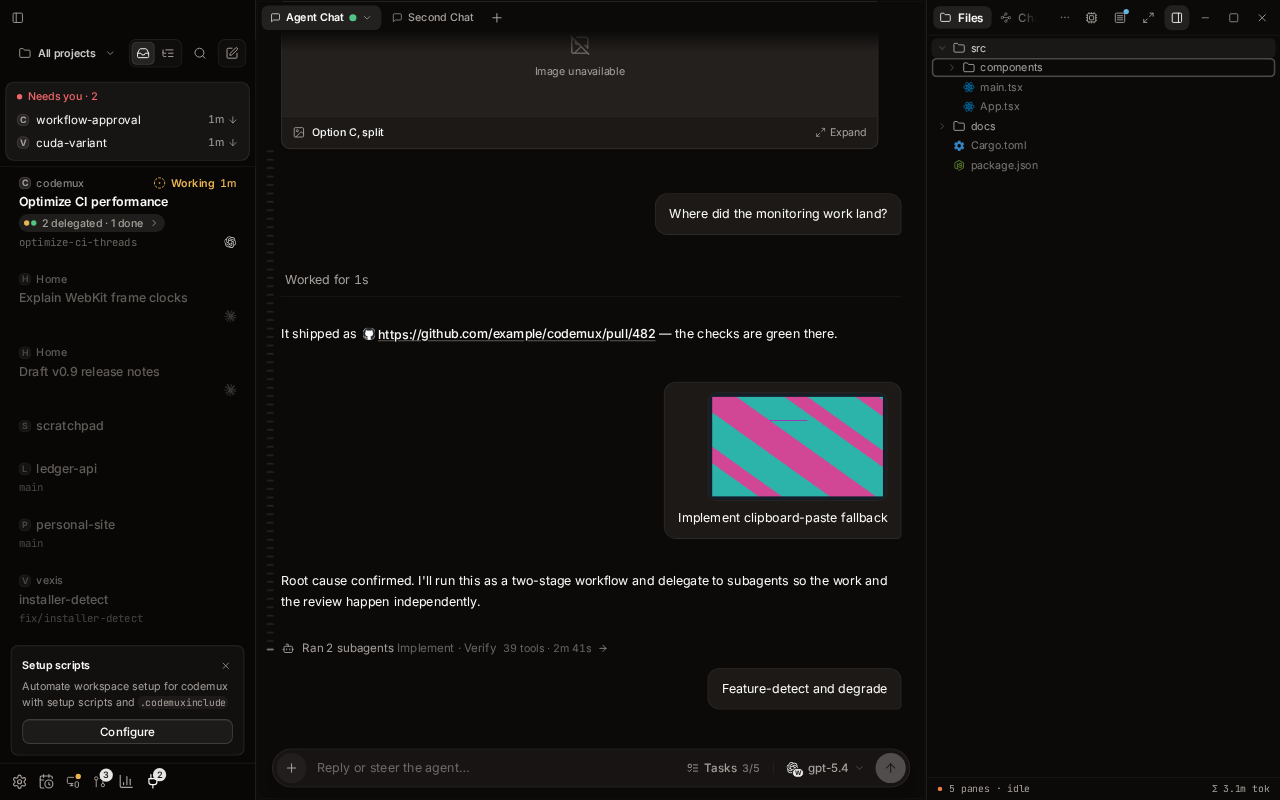
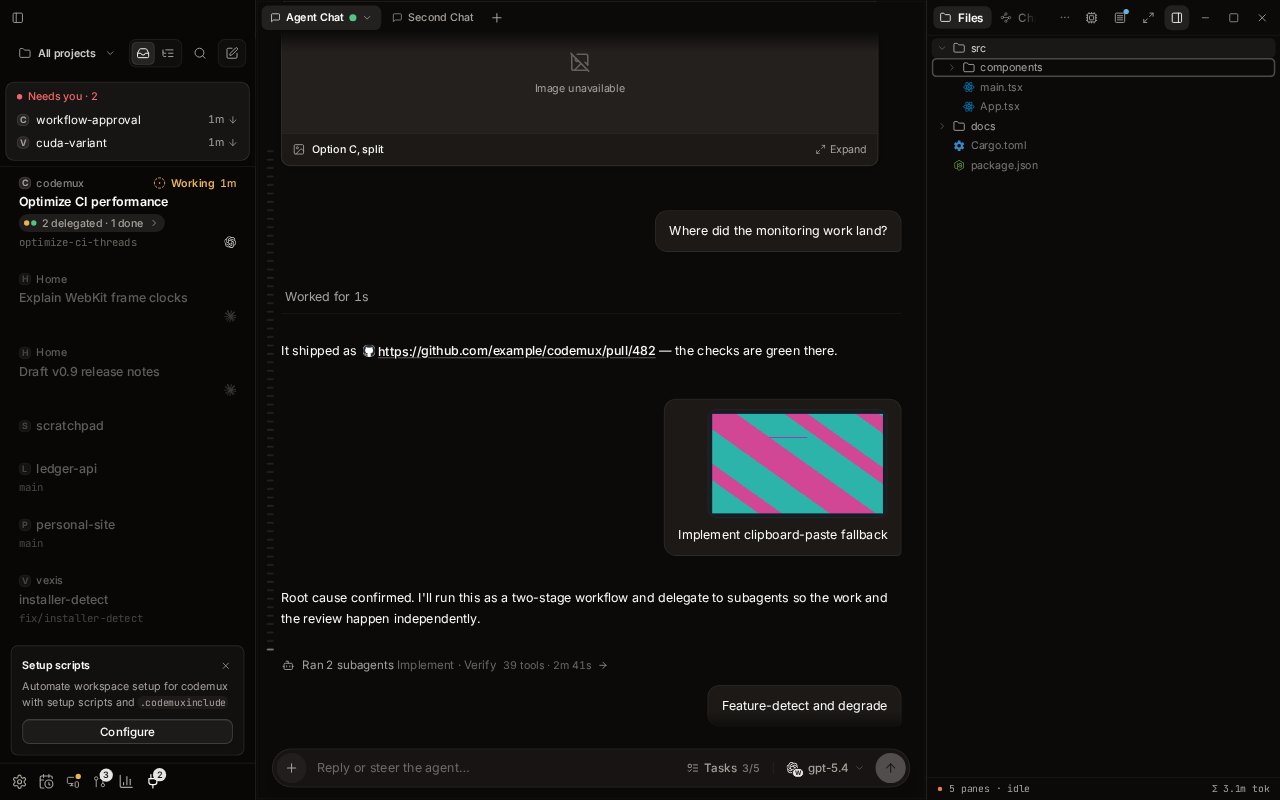
fix(file-tree): keep keyboard focus visible after scrolling

diff --git a/src/components/workspace/file-tree-panel.accessibility.test.tsx b/src/components/workspace/file-tree-panel.accessibility.test.tsx
@@ -234,6 +234,54 @@ describe("FileTreePanel accessibility", () => {
     }
   });
 
+  it.each(["Home", "End"])("reveals the active row when %s keeps the same active descendant", async (key) => {
+    const user = userEvent.setup();
+    render(<FileTreePanel workspace={workspace} />);
+    await screen.findByRole("treeitem", { name: "src" });
+    await user.tab();
+    await user.keyboard(`{${key}}`);
+    const row = activeItem().firstElementChild;
+    // Wheel scrolling does not change aria-activedescendant. A boundary
+    // command must still reveal that same row when it is out of view.
+    const scroll = vi.spyOn(Element.prototype, "scrollIntoView");
+    try {
+      await user.keyboard(`{${key}}`);
+      expect(activeItem().firstElementChild).toBe(row);
+      expect(scroll).toHaveBeenCalledWith({ block: "nearest" });
+      expect(scroll.mock.contexts.every((node) => node === row)).toBe(true);
+    } finally {
+      scroll.mockRestore();
+    }
+  });
+
+  it("reveals an active sibling pushed down by late-loading children without taking outside focus", async () => {
+    const user = userEvent.setup();
+    let resolve!: (entries: FileEntry[]) => void;
+    const pending = new Promise<FileEntry[]>((res) => { resolve = res; });
+    listDirectory.mockImplementation((path: string) => path === "/p" ? Promise.resolve(roots) : pending);
+    render(<><FileTreePanel workspace={workspace} /><button>Outside</button></>);
+    await screen.findByRole("treeitem", { name: "src" });
+    await user.tab();
+    await user.keyboard("{ArrowRight}{End}");
+    const file = activeItem();
+    expect(file).toHaveAccessibleName("README.md");
+    const scroll = vi.spyOn(Element.prototype, "scrollIntoView");
+    try {
+      await act(async () => resolve(listings["/p/src"]));
+      expect(activeItem()).toBe(file);
+      expect(scroll).toHaveBeenCalledWith({ block: "nearest" });
+      expect(scroll.mock.contexts.every((node) => node === file.firstElementChild)).toBe(true);
+      await user.click(screen.getByRole("button", { name: "Outside" }));
+      scroll.mockClear();
+      act(() => setShowHidden(true));
+      await screen.findByRole("treeitem", { name: "src" });
+      expect(scroll).not.toHaveBeenCalled();
+      expect(screen.getByRole("button", { name: "Outside" })).toHaveFocus();
+    } finally {
+      scroll.mockRestore();
+    }
+  });
+
   it("keeps focus on refresh, falls back to a surviving ancestor, then handles removal and empty results", async () => {
     const user = userEvent.setup();
     const view = render(<FileTreePanel workspace={workspace} />);

diff --git a/src/components/workspace/file-tree-panel.tsx b/src/components/workspace/file-tree-panel.tsx
@@ -234,11 +234,12 @@ export function FileTreePanel({
     }
   }, [activeNode, activePath, focusTrail]);
   const scrollActiveIntoView = useCallback(() => {
-    if (activeId && document.activeElement === treeRef.current) {
+    if (activeId && !pointerFocus.current && document.activeElement === treeRef.current) {
       document.getElementById(activeId)?.firstElementChild?.scrollIntoView({ block: "nearest" });
     }
   }, [activeId]);
-  useEffect(scrollActiveIntoView, [scrollActiveIntoView]);
+  // Newly loaded children can move an active sibling without changing its ID.
+  useEffect(scrollActiveIntoView, [scrollActiveIntoView, visibleNodes]);
   const focusItem = useCallback((path: string) => {
     const node = visibleNodes.find(({ entry }) => entry.path === path);
     if (node) setFocusTrail([...node.ancestors, path]);
@@ -331,6 +332,7 @@ export function FileTreePanel({
   const handleKeyDown = (event: KeyboardEvent<HTMLDivElement>) => {
     if (event.altKey || event.ctrlKey || event.metaKey || event.nativeEvent.isComposing) return;
     if (!activeNode) return;
+    pointerFocus.current = false;
     const index = visibleNodes.indexOf(activeNode);
     let target: VisibleNode | undefined;
     switch (event.key) {
@@ -366,6 +368,8 @@ export function FileTreePanel({
     event.preventDefault();
     event.stopPropagation();
     if (target) setFocusTrail([...target.ancestors, target.entry.path]);
+    // Boundary keys still reveal focus after the user wheel-scrolls away.
+    if (!target || target.entry.path === activePath) scrollActiveIntoView();
   };
 
   // The folder label, hidden-files toggle and Refresh that used to sit in
@@ -385,10 +389,9 @@ export function FileTreePanel({
           className="group/files px-[5px] pb-1 pt-[3px] outline-none"
           onKeyDown={handleKeyDown}
           onPointerDownCapture={() => { pointerFocus.current = true; }}
-          onFocus={() => {
-            if (!pointerFocus.current) scrollActiveIntoView();
-            pointerFocus.current = false;
-          }}
+          onPointerUpCapture={() => { pointerFocus.current = false; }}
+          onPointerCancelCapture={() => { pointerFocus.current = false; }}
+          onFocus={scrollActiveIntoView}
           onBlur={() => { pointerFocus.current = false; }}
         >
           {rootEntries.map((entry) => (
